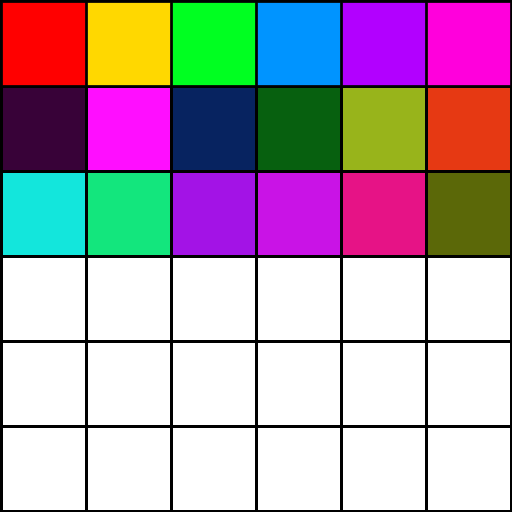
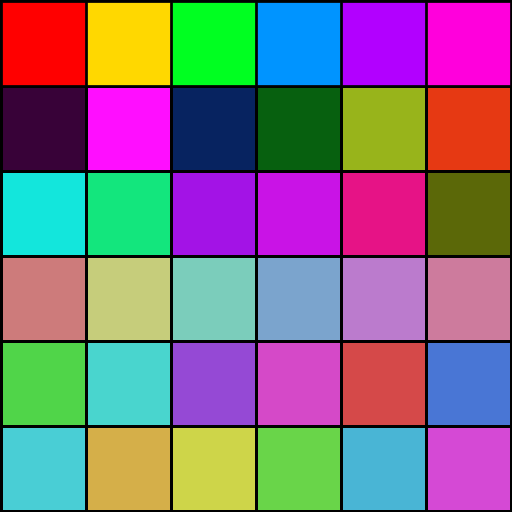
added worked on the grid asset

diff --git a/AnimationFSM/main.cpp b/AnimationFSM/main.cpp
@@ -45,6 +45,31 @@ int main()
 	animated_Prone.addFrame(sf::IntRect(343, 173, 84, 84));
 	animated_Prone.addFrame(sf::IntRect(428, 173, 84, 84));
 
+	AnimatedSprite animated_Crounching(texture);
+	animated_Crounching.addFrame(sf::IntRect(3, 258, 84, 84));
+	animated_Crounching.addFrame(sf::IntRect(88, 258, 84, 84));
+	animated_Crounching.addFrame(sf::IntRect(173, 258, 84, 84));
+	animated_Crounching.addFrame(sf::IntRect(258, 258, 84, 84));
+	animated_Crounching.addFrame(sf::IntRect(343, 258, 84, 84));
+	animated_Crounching.addFrame(sf::IntRect(428, 258, 84, 84));
+
+	AnimatedSprite animated_Jumping(texture);
+	animated_Jumping.addFrame(sf::IntRect(3, 343, 84, 84));
+	animated_Jumping.addFrame(sf::IntRect(88, 343, 84, 84));
+	animated_Jumping.addFrame(sf::IntRect(173, 343, 84, 84));
+	animated_Jumping.addFrame(sf::IntRect(258, 343, 84, 84));
+	animated_Jumping.addFrame(sf::IntRect(343, 343, 84, 84));
+	animated_Jumping.addFrame(sf::IntRect(428, 343, 84, 84));
+
+	AnimatedSprite animated_Climbing (texture);
+	animated_Climbing.addFrame(sf::IntRect(3, 428, 84, 84));
+	animated_Climbing.addFrame(sf::IntRect(88, 428, 84, 84));
+	animated_Climbing.addFrame(sf::IntRect(173, 428, 84, 84));
+	animated_Climbing.addFrame(sf::IntRect(258, 428, 84, 84));
+	animated_Climbing.addFrame(sf::IntRect(343, 428, 84, 84));
+	animated_Climbing.addFrame(sf::IntRect(428, 428, 84, 84));
+	x
+
 	AnimatedSprite mainSprite(texture);
 
 	mainSprite = animated_Prone;
